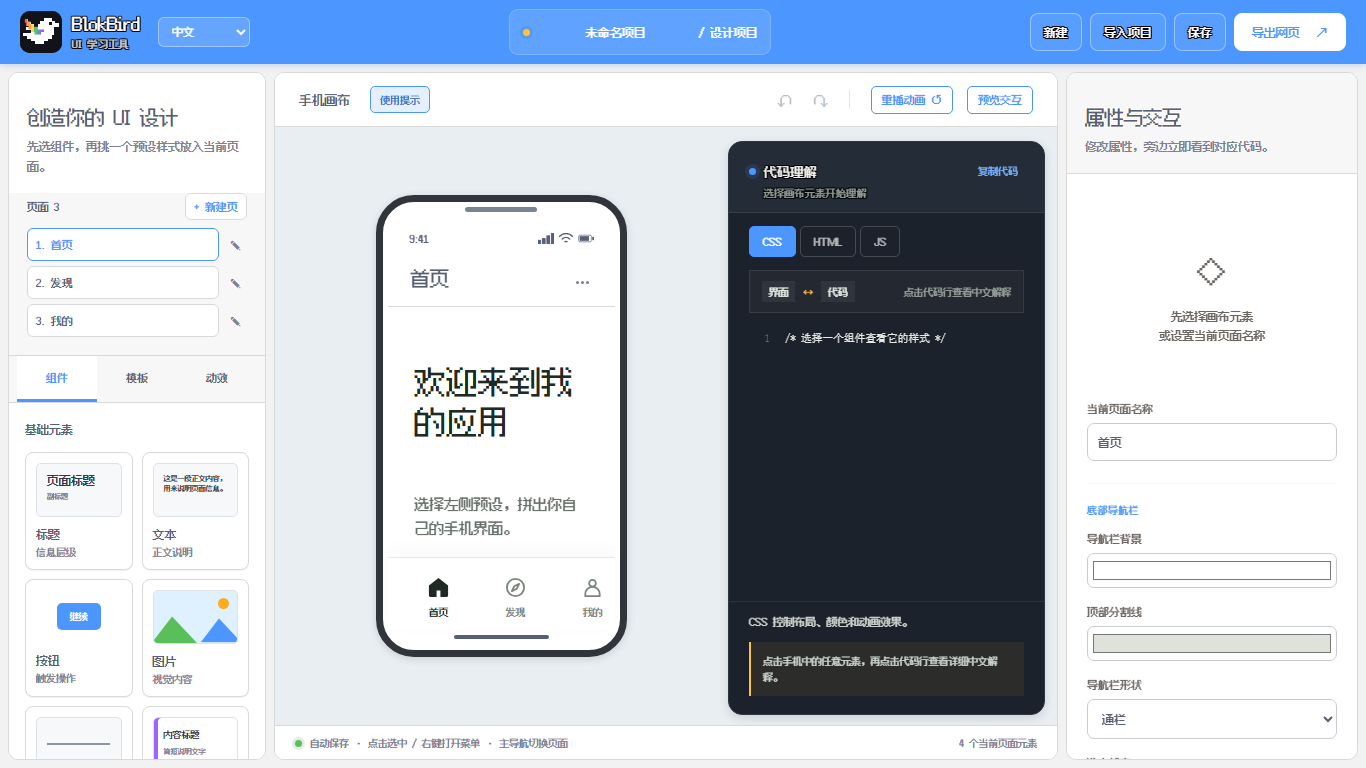
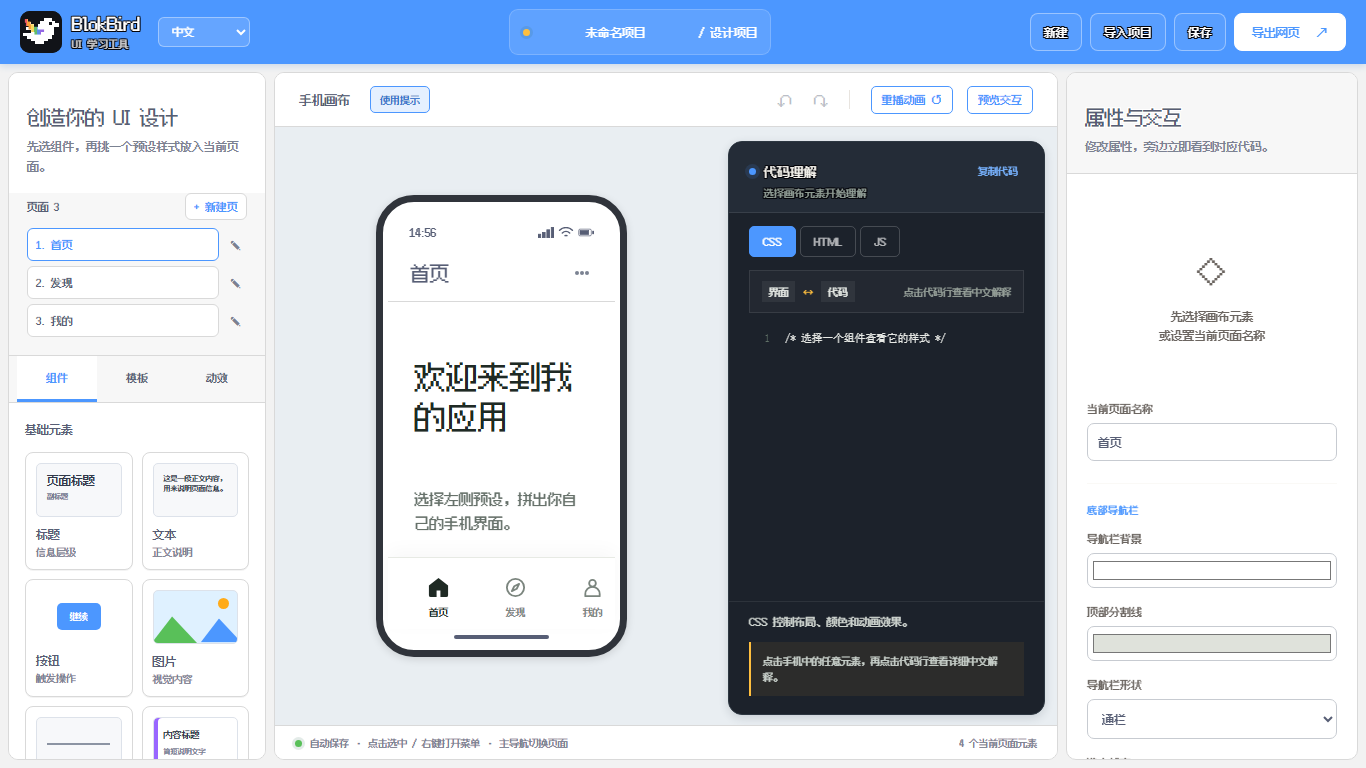
Hug selection frames, directional handles and live phone chrome

diff --git a/script.js b/script.js
@@ -328,7 +328,7 @@ let state = load();
 
 function makeItem(type, variantId, page = activePage) {
   const variant = VARIANTS[type].find(v => v.id === variantId) || VARIANTS[type][0];
-  const base = { id: uid(), type, page, layoutId: null, variant: variant.id, text: '', detail: '', color: '#1F2A24', background: '#FFFFFF', size: type === 'button' ? 14 : 16, radius: 0, align: 'left', width: 100, height: 0, src: '', href: '#', action: type === 'button' ? 'toast' : 'none', prompt: '操作成功', targetPage: 'profile', requiresInput: false, animation: 'none', animationDuration: 600, animationDelay: 0, animationEasing: 'ease', animationTrigger: 'enter', effect: 'none', effectColor: '#2F6B4F', opacity: 100, visualState: 'default', inputType: 'text', checked: false, columns: 1, gap: 10, padding: 10 };
+  const base = { id: uid(), type, page, layoutId: null, variant: variant.id, text: '', detail: '', color: '#1F2A24', background: '#FFFFFF', size: type === 'button' ? 14 : 16, radius: 0, align: 'left', width: 100, height: 0, offsetX: 0, offsetY: 0, src: '', href: '#', action: type === 'button' ? 'toast' : 'none', prompt: '操作成功', targetPage: 'profile', requiresInput: false, animation: 'none', animationDuration: 600, animationDelay: 0, animationEasing: 'ease', animationTrigger: 'enter', effect: 'none', effectColor: '#2F6B4F', opacity: 100, visualState: 'default', inputType: 'text', checked: false, columns: 1, gap: 10, padding: 10 };
   Object.assign(base, clone(variant.props)); base.size = Math.max(12, Math.min(100, Number(base.size) || 16)); if (type === 'card') base.detail = CARD_DETAILS[variant.id] || ''; return base;
 }
 
@@ -423,7 +423,7 @@ function normalizeProject(value) {
   result.pageParent = Object.fromEntries(result.pages.filter(page => result.pageModes[page] === 'detail' && result.pages.includes(result.pageParent?.[page]) && result.pageParent[page] !== page).map(page => [page, result.pageParent[page]]));
   result.headerActions = result.headerActions || {};
   for (const page of result.pages) { if (!result.pageTitles[page]) result.pageTitles[page] = '新页面'; if (!result.pageIcons[page]) result.pageIcons[page] = '□'; if (!result.headerActions[page]) result.headerActions[page] = { icon: '•••', action: 'menu', prompt: '这是' + result.pageTitles[page], targetPage: result.pages[0] }; }
-  result.items = result.items.map(item => ({ ...item, src: item.src === 'assets/white-sneaker-unsplash.jpg' ? SNEAKER_IMAGE : item.src, text: item.src === 'assets/white-sneaker-unsplash.jpg' ? '白色运动鞋商品图' : item.text, page: result.pages.includes(item.page) ? item.page : result.pages[0], variant: item.variant || VARIANTS[item.type][0].id, detail: item.detail ?? CARD_DETAILS[item.variant] ?? '', size: Math.max(12, Math.min(100, Number(item.size) || 16)), width: Math.max(10, Math.min(100, Number(item.width) || 100)), height: Math.max(0, Math.min(800, Number(item.height) || 0)), animation: item.animation || 'none', animationDuration: item.animationDuration ?? 600, animationDelay: item.animationDelay ?? 0, animationEasing: item.animationEasing || 'ease', animationTrigger: item.animationTrigger || 'enter', effect: item.effect || 'none', effectColor: item.effectColor || '#2F6B4F', opacity: item.opacity ?? 100, visualState: item.visualState || 'default', inputType: item.inputType || 'text', checked: Boolean(item.checked), layoutId: item.type === 'layout' ? null : item.layoutId || null, columns: item.columns || 1, gap: item.gap ?? 10, padding: item.padding ?? 10, action: item.action || (item.type === 'button' ? 'toast' : 'none'), prompt: item.prompt || '操作成功', targetPage: item.targetPage || result.pages[0], requiresInput: Boolean(item.requiresInput) }));
+  result.items = result.items.map(item => ({ ...item, src: item.src === 'assets/white-sneaker-unsplash.jpg' ? SNEAKER_IMAGE : item.src, text: item.src === 'assets/white-sneaker-unsplash.jpg' ? '白色运动鞋商品图' : item.text, page: result.pages.includes(item.page) ? item.page : result.pages[0], variant: item.variant || VARIANTS[item.type][0].id, detail: item.detail ?? CARD_DETAILS[item.variant] ?? '', size: Math.max(12, Math.min(100, Number(item.size) || 16)), width: Math.max(10, Math.min(100, Number(item.width) || 100)), height: Math.max(0, Math.min(800, Number(item.height) || 0)), offsetX: Number(item.offsetX) || 0, offsetY: Number(item.offsetY) || 0, animation: item.animation || 'none', animationDuration: item.animationDuration ?? 600, animationDelay: item.animationDelay ?? 0, animationEasing: item.animationEasing || 'ease', animationTrigger: item.animationTrigger || 'enter', effect: item.effect || 'none', effectColor: item.effectColor || '#2F6B4F', opacity: item.opacity ?? 100, visualState: item.visualState || 'default', inputType: item.inputType || 'text', checked: Boolean(item.checked), layoutId: item.type === 'layout' ? null : item.layoutId || null, columns: item.columns || 1, gap: item.gap ?? 10, padding: item.padding ?? 10, action: item.action || (item.type === 'button' ? 'toast' : 'none'), prompt: item.prompt || '操作成功', targetPage: item.targetPage || result.pages[0], requiresInput: Boolean(item.requiresInput) }));
   if (!result.paletteVersion && !result.styled) {
     const previousDefaults = { '#e07a5f': '#2F6B4F', '#2a6b6b': '#2F6B4F', '#2e2a27': '#1F2A24', '#6b6560': '#66716A', '#faf9f6': '#F5F3EF', '#e8e4df': '#DFE2DB', '#2455c5': '#2F6B4F' };
     for (const item of result.items) for (const key of ['color', 'background', 'effectColor']) if (typeof item[key] === 'string') item[key] = previousDefaults[item[key].toLowerCase()] || item[key];
@@ -600,20 +600,36 @@ function createElementNode(item) {
     node.style.borderRadius = `${Math.max(0, Math.min(99, Number(item.radius) || 0))}px`;
     node.style.textAlign = item.align || 'left';
   }
-  if (['heading', 'text', 'button', 'card', 'input'].includes(item.type)) node.style.background = safeColor(item.background, '#FFFFFF');
+  if (['heading', 'text', 'button', 'card', 'input'].includes(item.type)) node.style.background = safeColor(item.background, '#FFFFFF');  if (item.type === 'button') {
+    const width = Math.max(10, Math.min(100, Number(item.width) || 100));
+    if (width < 99.5) node.style.width = `${width}%`;
+    if (Number(item.height) > 0) node.style.minHeight = `${Math.max(28, Math.min(800, Number(item.height)))}px`;
+    node.style.marginLeft = `${Number(item.offsetX) || 0}px`; node.style.marginTop = `${Number(item.offsetY) || 0}px`;
+  }
+
   return node;
 }
 
 function buildCanvasWrapper(item) {
   const wrapper = document.createElement('div'); wrapper.className = 'canvas-element' + (selected === item.id && !preview ? ' selected' : '');
   wrapper.dataset.label = TYPE_LABELS[item.type]; wrapper.dataset.type = item.type; wrapper.dataset.id = item.id;
-  wrapper.style.width = `${Math.max(10, Math.min(100, Number(item.width) || 100))}%`;
-  if (Number(item.height) > 0) {
+  const inlineFrame = item.type === 'button';
+  wrapper.style.width = `${inlineFrame ? 100 : Math.max(10, Math.min(100, Number(item.width) || 100))}%`;
+  wrapper.style.borderRadius = `${Math.max(0, Math.min(99, Number(item.radius) || 0))}px`;
+  if (!inlineFrame) { wrapper.style.marginLeft = `${Number(item.offsetX) || 0}px`; wrapper.style.marginTop = `${Number(item.offsetY) || 0}px`; }
+  if (inlineFrame) wrapper.classList.add('inline-frame');
+  if (Number(item.height) > 0 && !inlineFrame) {
     wrapper.style.minHeight = `${Math.max(28, Math.min(800, Number(item.height)))}px`;
     wrapper.classList.add('has-custom-height');
   }
-  wrapper.append(createElementNode(item));
-  if (selected === item.id && !preview) for (const direction of ['nw', 'ne', 'sw', 'se']) { const handle = document.createElement('span'); handle.className = `resize-handle resize-${direction}`; handle.setAttribute('aria-hidden', 'true'); handle.onpointerdown = event => beginResize(event, item, wrapper, direction); wrapper.append(handle); }
+  const node = createElementNode(item);
+  if (inlineFrame) node.style.position = 'relative';
+  wrapper.append(node);
+  if (selected === item.id && !preview) for (const direction of ['nw', 'n', 'ne', 'e', 'se', 's', 'sw', 'w']) {
+    const handle = document.createElement('span'); handle.className = `resize-handle resize-${direction}`; handle.setAttribute('aria-hidden', 'true');
+    handle.onpointerdown = event => beginResize(event, item, inlineFrame ? node : wrapper, direction);
+    (inlineFrame ? node : wrapper).append(handle);
+  }
   wrapper.onclick = event => { event.stopPropagation(); if (preview) { if (item.animationTrigger === 'click') replayNodeAnimation(wrapper.firstElementChild); return; } selected = item.id; render(); };
   wrapper.oncontextmenu = event => { if (preview) return; event.preventDefault(); event.stopPropagation(); selected = item.id; renderInspector(); openContextMenu(event.clientX, event.clientY, 'item', item.id); };
   wrapper.draggable = !preview;
@@ -623,12 +639,36 @@ function buildCanvasWrapper(item) {
   wrapper.ondrop = event => { if (preview) return; event.preventDefault(); event.stopPropagation(); wrapper.classList.remove('drag-over'); const dragged = event.dataTransfer.getData('text/plain'); if (item.type === 'layout' && dragged !== item.id) moveIntoLayout(dragged, item.id); else reorderItem(dragged, item.id); };
   return wrapper;
 }
-function beginResize(event, item, wrapper, direction) {
+function beginResize(event, item, target, direction) {
   event.preventDefault(); event.stopPropagation();
-  const page = $('#canvasPage'); const pageRect = page.getBoundingClientRect(); const start = wrapper.getBoundingClientRect(); const startX = event.clientX; const startY = event.clientY;
-  commit(); wrapper.setPointerCapture?.(event.pointerId);
-  const move = current => { const horizontal = direction.includes('e') ? current.clientX - startX : startX - current.clientX; const vertical = direction.includes('s') ? current.clientY - startY : startY - current.clientY; const widthPx = Math.max(56, Math.min(pageRect.width, start.width + horizontal)); const heightPx = Math.max(28, Math.min(800, start.height + vertical)); wrapper.style.width = `${widthPx / pageRect.width * 100}%`; wrapper.style.minHeight = `${heightPx}px`; wrapper.style.height = ''; wrapper.classList.add('has-custom-height', 'is-resizing'); };
-  const finish = current => { move(current); const rect = wrapper.getBoundingClientRect(); item.width = Math.round(Math.max(10, Math.min(100, rect.width / pageRect.width * 100)) * 10) / 10; item.height = Math.round(Math.max(28, Math.min(800, rect.height))); wrapper.releasePointerCapture?.(event.pointerId); window.removeEventListener('pointermove', move); window.removeEventListener('pointerup', finish); update(); };
+  const page = $('#canvasPage'); const pageRect = page.getBoundingClientRect(); const start = target.getBoundingClientRect(); const startX = event.clientX; const startY = event.clientY;
+  const startOx = Number(item.offsetX) || 0, startOy = Number(item.offsetY) || 0;
+  const startW = start.width, startH = start.height;
+  const cursor = ['n', 's'].includes(direction) ? 'ns-resize' : ['e', 'w'].includes(direction) ? 'ew-resize' : ['ne', 'sw'].includes(direction) ? 'nesw-resize' : 'nwse-resize';
+  let lastW = startW, lastH = startH, lastOx = startOx, lastOy = startOy;
+  commit(); target.setPointerCapture?.(event.pointerId);
+  const move = current => {
+    const dx = current.clientX - startX, dy = current.clientY - startY;
+    let width = direction.includes('e') ? startW + dx : direction.includes('w') ? startW - dx : startW;
+    let height = direction.includes('s') ? startH + dy : direction.includes('n') ? startH - dy : startH;
+    width = Math.max(56, Math.min(pageRect.width, width));
+    height = Math.max(28, Math.min(800, height));
+    const offsetX = direction.includes('w') ? startOx + (startW - width) : startOx;
+    const offsetY = direction.includes('n') ? startOy + (startH - height) : startOy;
+    lastW = width; lastH = height; lastOx = offsetX; lastOy = offsetY;
+    target.style.width = `${width}px`; target.style.minHeight = `${height}px`; target.style.height = '';
+    target.style.marginLeft = `${offsetX}px`; target.style.marginTop = `${offsetY}px`;
+    target.style.cursor = cursor; target.classList.add('is-resizing');
+  };
+  const finish = current => {
+    move(current);
+    item.width = Math.round(Math.max(10, Math.min(100, lastW / pageRect.width * 100)) * 10) / 10;
+    item.height = Math.round(Math.max(28, Math.min(800, lastH)));
+    item.offsetX = Math.round(lastOx); item.offsetY = Math.round(lastOy);
+    target.releasePointerCapture?.(event.pointerId); target.style.cursor = ''; target.classList.remove('is-resizing');
+    window.removeEventListener('pointermove', move); window.removeEventListener('pointerup', finish);
+    update();
+  };
   window.addEventListener('pointermove', move); window.addEventListener('pointerup', finish, { once: true });
 }
 function renderCanvas() {
@@ -1053,8 +1093,11 @@ function presentationCss(item) { return `--effect-color:${safeColor(item.effectC
 function presentationTrigger(item) { return item.animation && item.animation !== 'none' && safeTrigger(item.animationTrigger) === 'click' ? ' data-animation-trigger="click"' : ''; }
 function exportElement(item) {
   const text = escapeHtml(item.text); const color = safeColor(item.color); const bg = safeColor(item.background, '#FFFFFF');
+  const widthPct = Math.max(10, Math.min(100, Number(item.width) || 100));
+  const widthStyle = item.type === 'button' && widthPct >= 99.5 ? 'width:auto;' : `width:${widthPct}%;`;
   const sizeStyle = Number(item.height) > 0 ? `min-height:${Math.max(28, Math.min(800, Number(item.height)))}px;` : '';
-  const dimensions = `width:${Math.max(10, Math.min(100, Number(item.width) || 100))}%;${sizeStyle}`;
+  const offsetStyle = `margin-left:${Number(item.offsetX) || 0}px;margin-top:${Number(item.offsetY) || 0}px;`;
+  const dimensions = `${widthStyle}${sizeStyle}${offsetStyle}`;
   const base = `${dimensions}color:${color};font-size:${Math.max(12, Math.min(100, Number(item.size) || 16))}px;border-radius:${Math.max(0, Math.min(99, Number(item.radius) || 0))}px;text-align:${item.align || 'left'};background:${bg};${presentationCss(item)}`;
   const classes = presentationClasses(item); const trigger = presentationTrigger(item);
   if (item.type === 'layout') { const children = state.items.filter(child => child.page === item.page && child.layoutId === item.id).map(exportElement).join(''); const style = `--layout-columns:${Math.max(1, Math.min(4, Number(item.columns) || 1))};gap:${Math.max(0, Math.min(40, Number(item.gap) || 0))}px;padding:${Math.max(0, Math.min(50, Number(item.padding) || 0))}px;border-radius:${Math.max(0, Math.min(99, Number(item.radius) || 0))}px;background:${bg};${presentationCss(item)}`; return `<div class="item ui-layout variant-layout-${escapeHtml(item.variant)}${classes}" style="${style}"${trigger}>${children}</div>`; }
@@ -1108,13 +1151,15 @@ function buildExportHtml(fontFace = '') {
   const navClass = `nav-shape-${navStyle.shape} nav-state-${navStyle.activeState}`;
   const navInline = `--nav-background:${safeColor(navStyle.background, '#FFFFFF')};--nav-border:${safeColor(navStyle.borderColor, '#DFE2DB')};--nav-height:${Math.max(56, Math.min(110, Number(navStyle.height) || 72))}px;--nav-radius:${Math.max(0, Math.min(40, Number(navStyle.radius) || 0))}px`;
   const html = `<!doctype html><html lang="zh-CN"><head><meta charset="utf-8"><meta name="viewport" content="width=device-width,initial-scale=1"><title>${escapeHtml(state.name)}</title><style>
-  ${fontFace}*{box-sizing:border-box}body{margin:0;background:#F5F3EF;color:#1F2A24;font-family:'Fusion Pixel','Microsoft YaHei UI','Microsoft YaHei',monospace}.app{width:min(100%,468px);height:100dvh;min-height:650px;margin:auto;background:#fff;display:flex;flex-direction:column;box-shadow:0 0 30px #1F2A2418}.status{height:38px;flex:none;padding:14px 20px 0;display:flex;justify-content:space-between;font-size:11px;font-weight:700}.status .signals{display:flex;align-items:center;gap:4px;font-size:0}.dot-menu{display:inline-flex;align-items:center;gap:2px}.dot-menu i{width:3px;height:3px;border-radius:50%;background:currentColor;display:block}.status .signals svg{width:16px;height:11px;display:block;fill:currentColor;stroke:currentColor}.status .signals svg:nth-child(2){fill:none;stroke-width:1.6}.header{height:56px;flex:none;display:flex;align-items:center;padding:0 22px;border-bottom:1px solid #DFE2DB;font-size:20px;font-weight:700}main{flex:1;overflow:auto;padding:24px 22px}nav{height:72px;flex:none;display:grid;grid-template-columns:repeat(3,1fr);border-top:1px solid #DFE2DB}nav button{border:0;background:#fff;color:#66716A;font:600 11px system-ui;display:flex;flex-direction:column;align-items:center;justify-content:center;gap:3px}nav button span{font-size:22px}nav button.active{color:#2F6B4F}.app-page{display:none}.app-page.active{display:block}.item{display:block;margin:0 0 17px;max-width:100%}.btn{padding:10px 18px;border:1px solid transparent;font-weight:700;cursor:pointer}.btn.outline{border-color:#2F6B4F}.btn.text-button{padding-left:0;padding-right:0}.btn:active{transform:scale(.96)}.card{padding:20px;border:1px solid #DFE2DB}.card.accent{border-left:4px solid #2F6B4F}.card.outline{border-color:#2F6B4F}.card small{display:block;margin-top:7px;color:#66716A;font-size:12px}hr{border:0;border-top:1px solid #DFE2DB}.dashed{border-top-style:dashed}.wave{height:27px;width:100%}.toast{position:fixed;left:50%;bottom:91px;transform:translateX(-50%);display:none;padding:10px 18px;background:#1F2A24;color:#fff;border-radius:9px;font-size:12px}.modal{position:fixed;inset:0;background:#1F2A2470;display:none;place-items:center;padding:20px}.modal>div{max-width:320px;width:100%;background:#fff;border-radius:15px;padding:24px;text-align:center}.modal button{background:#2F6B4F;color:#fff;border:0;border-radius:8px;padding:10px 24px}.bb-fade{animation:fade .5s ease both}.bb-rise{animation:rise .5s ease both}.bb-pop{animation:pop .4s ease both}@keyframes fade{from{opacity:0}to{opacity:1}}@keyframes rise{from{opacity:0;transform:translateY(15px)}to{opacity:1;transform:translateY(0)}}@keyframes pop{from{opacity:0;transform:scale(.9)}to{opacity:1}}
+  ${fontFace}*{box-sizing:border-box}body{margin:0;background:#F5F3EF;color:#1F2A24;font-family:'Fusion Pixel','Microsoft YaHei UI','Microsoft YaHei',monospace}.app{width:min(100%,468px);height:100dvh;min-height:650px;margin:auto;background:#fff;display:flex;flex-direction:column;box-shadow:0 0 30px #1F2A2418}.status{height:38px;flex:none;padding:14px 20px 0;display:flex;justify-content:space-between;font-size:11px;font-weight:700}.status .signals{display:flex;align-items:center;gap:4px;font-size:0}.dot-menu{display:inline-flex;align-items:center;gap:1px}.dot-menu i{width:4px;height:4px;border-radius:50%;background:currentColor;display:block}.status .signals svg{width:16px;height:11px;display:block;fill:currentColor;stroke:currentColor}.status .signals svg:nth-child(2){fill:none;stroke-width:1.6}.header{height:56px;flex:none;display:flex;align-items:center;padding:0 22px;border-bottom:1px solid #DFE2DB;font-size:20px;font-weight:700}main{flex:1;overflow:auto;padding:24px 22px}nav{height:72px;flex:none;display:grid;grid-template-columns:repeat(3,1fr);border-top:1px solid #DFE2DB}nav button{border:0;background:#fff;color:#66716A;font:600 11px system-ui;display:flex;flex-direction:column;align-items:center;justify-content:center;gap:3px}nav button span{font-size:22px}nav button.active{color:#2F6B4F}.app-page{display:none}.app-page.active{display:block}.item{display:block;margin:0 0 17px;max-width:100%}.btn{padding:10px 18px;border:1px solid transparent;font-weight:700;cursor:pointer}.btn.outline{border-color:#2F6B4F}.btn.text-button{padding-left:0;padding-right:0}.btn:active{transform:scale(.96)}.card{padding:20px;border:1px solid #DFE2DB}.card.accent{border-left:4px solid #2F6B4F}.card.outline{border-color:#2F6B4F}.card small{display:block;margin-top:7px;color:#66716A;font-size:12px}hr{border:0;border-top:1px solid #DFE2DB}.dashed{border-top-style:dashed}.wave{height:27px;width:100%}.toast{position:fixed;left:50%;bottom:91px;transform:translateX(-50%);display:none;padding:10px 18px;background:#1F2A24;color:#fff;border-radius:9px;font-size:12px}.modal{position:fixed;inset:0;background:#1F2A2470;display:none;place-items:center;padding:20px}.modal>div{max-width:320px;width:100%;background:#fff;border-radius:15px;padding:24px;text-align:center}.modal button{background:#2F6B4F;color:#fff;border:0;border-radius:8px;padding:10px 24px}.bb-fade{animation:fade .5s ease both}.bb-rise{animation:rise .5s ease both}.bb-pop{animation:pop .4s ease both}@keyframes fade{from{opacity:0}to{opacity:1}}@keyframes rise{from{opacity:0;transform:translateY(15px)}to{opacity:1;transform:translateY(0)}}@keyframes pop{from{opacity:0;transform:scale(.9)}to{opacity:1}}
   .header{justify-content:space-between}.header button{border:0;background:transparent;color:#66716A;font-size:16px;cursor:pointer}nav{display:flex;grid-template-columns:none;overflow-x:auto;scrollbar-width:none}nav button{min-width:74px;flex:1 0 74px}.more-menu{position:fixed;right:max(12px,calc((100vw - 468px)/2 + 20px));top:88px;width:145px;background:#fff;border:1px solid #DFE2DB;border-radius:9px;box-shadow:0 10px 25px #1F2A2420;display:none}.more-menu button{display:block;width:100%;padding:10px;background:#fff;border:0;text-align:left;color:#1F2A24}
   #back[hidden],nav[hidden]{display:none}.header #back{font-size:23px;color:#1F2A24}
   nav{height:var(--nav-height,72px);padding:4px 12px 0;border-color:var(--nav-border,#DFE2DB);background:var(--nav-background,#fff);border-radius:var(--nav-radius,0);box-shadow:0 -6px 18px #1F2A2408}nav button{min-width:76px;gap:3px;padding:5px 4px 3px;border-radius:10px;color:var(--nav-inactive,#7B857E);background:transparent;font-size:10px;font-weight:550}nav button.active{color:var(--nav-active,#1F2A24);font-weight:750}nav.nav-shape-floating{margin:0 12px 10px;border:1px solid var(--nav-border);box-shadow:0 8px 24px #1F2A2420}.nav-shape-pill{margin:0 18px 12px;border:1px solid var(--nav-border);border-radius:999px}.nav-state-icon button.active,.nav-state-underline button.active{background:transparent}.nav-state-tint button.active{background:color-mix(in srgb,var(--nav-active) 18%,var(--nav-background))}.nav-state-tint button.active .icon-filled{display:none!important}.nav-state-tint button.active .icon-outline{display:block!important}.nav-state-underline button{position:relative}.nav-state-underline button.active:after{content:'';position:absolute;bottom:2px;width:22px;height:3px;border-radius:3px;background:currentColor}.nav-state-underline button.active .nav-icon .icon-filled{display:none}.nav-state-underline button.active .nav-icon .icon-outline{display:block}nav .nav-icon{width:26px;height:26px;display:grid;place-items:center}nav .nav-icon svg,nav .nav-icon img{width:var(--icon-size,23px);height:var(--icon-size,23px);display:block;object-fit:contain}nav .nav-icon svg{stroke:currentColor;stroke-width:var(--icon-stroke,1.9);stroke-linecap:round;stroke-linejoin:round;fill:none}nav .nav-icon .icon-filled{display:none;fill:currentColor;stroke:none}nav button.active .nav-icon svg.has-fill .icon-outline{display:none}nav button.active .nav-icon svg.has-fill .icon-filled{display:block}nav button:not(.active) .nav-icon img{opacity:.58}
-  ${PRESET_CSS}</style></head><body><div class="app"><div class="status"><span>9:41</span><span class="signals" aria-hidden="true"><svg viewBox="0 0 18 12"><rect x="0" y="8" width="3" height="4"/><rect x="5" y="6" width="3" height="6"/><rect x="10" y="3" width="3" height="9"/><rect x="15" y="0" width="3" height="12"/></svg><svg viewBox="0 0 16 12"><path d="M1 3.5a10 10 0 0 1 14 0M4 6.5a6 6 0 0 1 8 0M7 9.5a2 2 0 0 1 2 0" fill="none" stroke="currentColor" stroke-width="1.6" stroke-linecap="round"/></svg><svg viewBox="0 0 24 12"><rect x="1" y="1" width="19" height="10" rx="2" fill="none" stroke="currentColor"/><rect x="3" y="3" width="13" height="6"/><rect x="22" y="4" width="2" height="4"/></svg></span></div><div class="header"><button id="back" aria-label="返回上一页" hidden>←</button><span id="title"></span><button id="more" aria-label="页面操作">•••</button></div><main>${pages}</main><nav class="${navClass}" style="${navInline}">${nav}</nav></div><div class="more-menu" id="moreMenu"><button id="moreInfo">页面信息</button><button id="moreNext">下一页</button><button id="moreClose">关闭菜单</button></div><div class="toast" id="toast"></div><div class="modal" id="modal"><div><strong>提示</strong><p id="message"></p><button id="close">知道了</button></div></div><script>
+  ${PRESET_CSS}</style></head><body><div class="app"><div class="status"><span class="phone-time">9:41</span><span class="signals" aria-hidden="true"><svg viewBox="0 0 18 12"><rect x="0" y="8" width="3" height="4"/><rect x="5" y="6" width="3" height="6"/><rect x="10" y="3" width="3" height="9"/><rect x="15" y="0" width="3" height="12"/></svg><svg viewBox="0 0 16 12"><path d="M1 3.5a10 10 0 0 1 14 0M4 6.5a6 6 0 0 1 8 0M7 9.5a2 2 0 0 1 2 0" fill="none" stroke="currentColor" stroke-width="1.6" stroke-linecap="round"/></svg><svg viewBox="0 0 24 12"><rect x="1" y="1" width="19" height="10" rx="2" fill="none" stroke="currentColor"/><rect x="3" y="3" width="13" height="6"/><rect x="22" y="4" width="2" height="4"/></svg></span></div><div class="header"><button id="back" aria-label="返回上一页" hidden>←</button><span id="title"></span><button id="more" aria-label="页面操作">•••</button></div><main>${pages}</main><nav class="${navClass}" style="${navInline}">${nav}</nav></div><div class="more-menu" id="moreMenu"><button id="moreInfo">页面信息</button><button id="moreNext">下一页</button><button id="moreClose">关闭菜单</button></div><div class="toast" id="toast"></div><div class="modal" id="modal"><div><strong>提示</strong><p id="message"></p><button id="close">知道了</button></div></div><script>
   const titles=${titlesJson},actions=${actionsJson},headers=${headerJson},pageIds=${pageIdsJson},pageModes=${pageModesJson},pageParent=${pageParentJson};
   let current=pageIds[0],pageHistory=[];
+  function updatePhoneTime(){const el=document.querySelector('.phone-time');if(!el)return;const d=new Date();el.textContent=String(d.getHours()).padStart(2,'0')+':'+String(d.getMinutes()).padStart(2,'0')}
+  if(typeof window!=='undefined'){updatePhoneTime();setTimeout(function tick(){updatePhoneTime();setTimeout(tick,30000)},30000)}
   function hideMore(){document.getElementById('moreMenu').style.display='none'}
   function show(page,remember=false){if(!pageIds.includes(page))return;if(remember&&page!==current)pageHistory.push(current);else if(!remember)pageHistory=[];current=page;document.querySelectorAll('.app-page').forEach(e=>e.classList.toggle('active',e.dataset.page===page));document.querySelectorAll('nav button').forEach(e=>e.classList.toggle('active',e.dataset.pageTarget===page));document.getElementById('title').textContent=titles[page]||page;const moreIcon=(headers[page]&&headers[page].icon)||'•••';const moreEl=document.getElementById('more');if(moreIcon==='•••')moreEl.innerHTML='<span class="dot-menu" aria-hidden="true"><i></i><i></i><i></i></span>';else moreEl.textContent=moreIcon;document.getElementById('back').hidden=pageModes[page]!=='detail';document.querySelector('nav').hidden=pageModes[page]==='detail';document.querySelector('main').scrollTop=0;hideMore()}
   function back(){const prior=pageHistory.pop()||pageParent[current]||pageIds.find(id=>pageModes[id]!=='detail');if(prior&&prior!==current){const remaining=pageHistory;show(prior);pageHistory=remaining}}
@@ -1150,7 +1195,7 @@ function loadExportFontFace() {
   if (window.BLOKBIRD_FONT_DATA) return Promise.resolve(build(window.BLOKBIRD_FONT_DATA));
   return new Promise(resolve => {
     const script = document.createElement('script');
-    script.src = 'export-font.js?v=20261110e';
+    script.src = 'export-font.js?v=20261110f';
     script.onload = () => resolve(build(window.BLOKBIRD_FONT_DATA));
     script.onerror = () => resolve('');
     document.head.append(script);
@@ -1215,4 +1260,6 @@ document.querySelectorAll('[data-code]').forEach(button => button.onclick = () =
 document.addEventListener('click', event => { if (!$('#contextMenu').contains(event.target)) hideContextMenu(); if (!$('#phoneMoreMenu').contains(event.target) && event.target !== $('#phoneMoreBtn')) $('#phoneMoreMenu').classList.add('hidden'); });
 document.addEventListener('keydown', event => { if (event.key === 'Escape') { hideContextMenu(); $('#phoneMoreMenu').classList.add('hidden'); $('#guideDialog').classList.add('hidden'); if (componentCategoryOpen) { event.preventDefault(); closeComponentCategory(); } if (!$('#assetsTab').classList.contains('hidden')) { event.preventDefault(); closeAssetsPanel(); } } const editing = ['INPUT', 'TEXTAREA', 'SELECT'].includes(document.activeElement?.tagName); if (editing) return; if ((event.ctrlKey || event.metaKey) && event.key.toLowerCase() === 'z') { event.preventDefault(); $('#undoBtn').click(); } if ((event.ctrlKey || event.metaKey) && event.key.toLowerCase() === 'y') { event.preventDefault(); $('#redoBtn').click(); } if ((event.ctrlKey || event.metaKey) && event.key.toLowerCase() === 'c' && selected && selected !== '__header__') { event.preventDefault(); copyItem(selected); } if ((event.ctrlKey || event.metaKey) && event.key.toLowerCase() === 'v' && clipboard) { event.preventDefault(); pasteItem(); } if (event.key === 'Delete' && selected && selected !== '__header__') { event.preventDefault(); deleteItem(selected); } });
 const presetStyle = document.createElement('style'); presetStyle.textContent = PRESET_CSS; document.head.append(presetStyle);
+function updatePhoneTime() { const el = $('.phone-time'); if (!el) return; const d = new Date(); el.textContent = String(d.getHours()).padStart(2, '0') + ':' + String(d.getMinutes()).padStart(2, '0'); }
+updatePhoneTime(); setInterval(updatePhoneTime, 30000);
 renderTemplates(); renderEffects(); renderAssets(); render();

diff --git a/phone.css b/phone.css
@@ -10,14 +10,14 @@
   background:var(--surface);box-shadow:0 18px 48px #1F2A2426,0 0 0 2px #66716A;
   overflow:hidden;
 }
-.canvas-frame.mobile::before{content:"";position:absolute;top:5px;left:50%;transform:translateX(-50%);width:72px;height:5px;border-radius:8px;background:var(--muted)}
-.phone-status{height:35px;flex:none;display:flex;justify-content:space-between;align-items:center;padding:10px 21px 0;font-size:11px;font-weight:700;color:var(--text)}
+.canvas-frame.mobile::before{display:none}
+.phone-status{height:30px;flex:none;display:flex;justify-content:space-between;align-items:center;padding:3px 21px 0;font-size:12px;font-weight:400;color:var(--text)}
 .phone-signals{display:flex;align-items:center;gap:4px;font-size:0}.phone-signals svg{width:16px;height:11px;display:block;fill:currentColor;stroke:currentColor}.phone-signals svg:nth-child(2){fill:none;stroke-width:1.6}
 .phone-app-header{height:56px;flex:none;display:flex;justify-content:space-between;align-items:center;padding:0 22px;border-bottom:1px solid var(--line);color:var(--text)}
 .phone-app-header .phone-back{border:0;background:transparent;color:var(--text);font-size:25px;line-height:1;padding:6px 12px 6px 0;cursor:pointer}.phone-app-header .phone-back:hover{color:var(--primary)}
 .phone-app-header .phone-back:not(.hidden)+strong{margin-right:auto}
 .phone-app-header strong{font-size:20px}.phone-header-dot{font-size:14px;letter-spacing:0;color:var(--muted)}
-.phone-header-dot{border:0;background:transparent;padding:8px 4px;cursor:pointer;font-weight:700}.dot-menu{display:inline-flex;align-items:center;gap:2px}.dot-menu i{width:3px;height:3px;border-radius:50%;background:currentColor;display:block}.phone-header-dot:hover{color:var(--selected)}.phone-header-dot.selected{outline:1px solid var(--selected);border-radius:6px}
+.phone-header-dot{border:0;background:transparent;padding:2px 4px;cursor:pointer;font-weight:400;display:inline-flex;align-items:center;justify-content:center;line-height:1}.dot-menu{display:inline-flex;align-items:center;gap:1px}.dot-menu i{width:4px;height:4px;border-radius:50%;background:currentColor;display:block}.phone-header-dot:hover{color:var(--selected)}.phone-header-dot.selected{outline:2px solid var(--selected);outline-offset:0;border-radius:0}
 .phone-more-menu{position:absolute;z-index:5;right:20px;top:90px;width:145px;background:var(--surface);border:1px solid var(--line);border-radius:9px;box-shadow:0 10px 25px #1F2A2420;overflow:hidden}
 .phone-more-menu button{display:block;width:100%;padding:11px 13px;border:0;background:var(--surface);text-align:left;color:var(--text);font-size:12px}.phone-more-menu button:hover{background:var(--page)}
 .canvas-frame.mobile .canvas-page{height:auto;min-height:0;flex:1;overflow-y:auto;overflow-x:hidden;padding:24px 22px;background:var(--surface);border-radius:0;scrollbar-width:none}
@@ -87,4 +87,4 @@
 .variant-option .preview-input{width:84px;padding:7px 6px;border:1px solid var(--line);color:var(--muted);font-size:8px;overflow:hidden;text-overflow:ellipsis;white-space:nowrap;text-align:left}.variant-option .preview-input.variant-input-underline{border-width:0 0 2px}.variant-option .preview-switch{width:37px;height:22px;display:flex;align-items:center;padding:3px;border-radius:99px}.variant-option .preview-switch i{width:16px;height:16px;border-radius:50%;background:#fff;box-shadow:0 1px 3px #0003}.variant-option .preview-switch.on{justify-content:flex-end}
 .phone-nav{height:var(--nav-height,72px);border-top-color:var(--nav-border,var(--line));background:var(--nav-background,var(--surface));border-radius:var(--nav-radius,0);transition:height .2s,margin .2s,border-radius .2s,background .2s}
 .phone-nav.nav-shape-floating{margin:0 10px 10px;border:1px solid var(--nav-border,var(--line));box-shadow:0 8px 22px #1727471F}.phone-nav.nav-shape-pill{margin:0 15px 12px;border:1px solid var(--nav-border,var(--line));border-radius:999px}.phone-nav.nav-state-tint button.active{background:color-mix(in srgb,var(--nav-active) 13%,transparent)}.phone-nav.nav-state-underline button.active:after{content:'';width:20px;height:3px;border-radius:3px;background:currentColor}.phone-nav.nav-state-underline button.active .icon-filled{display:none!important}.phone-nav.nav-state-underline button.active .icon-outline{display:block!important}
-.canvas-element.is-resizing{cursor:nwse-resize}.canvas-element.has-custom-height>*:first-child{height:100%;max-height:100%}.canvas-element.has-custom-height img{width:100%;object-fit:cover}.resize-handle{position:absolute;width:11px;height:11px;background:#fff;border:2px solid #4C97FF;z-index:8;box-shadow:0 1px 3px #17274733}.resize-nw{left:-6px;top:-6px;cursor:nwse-resize}.resize-ne{right:-6px;top:-6px;cursor:nesw-resize}.resize-sw{left:-6px;bottom:-6px;cursor:nesw-resize}.resize-se{right:-6px;bottom:-6px;cursor:nwse-resize}
+.canvas-element.is-resizing{cursor:nwse-resize}.canvas-element.inline-frame.selected{border-color:transparent}.canvas-element.inline-frame.selected>.ui-button{outline:2px solid var(--selected);outline-offset:2px}.canvas-element.has-custom-height img{width:100%;object-fit:cover}.resize-handle{position:absolute;width:11px;height:11px;background:#fff;border:2px solid #4C97FF;z-index:8;box-shadow:0 1px 3px #17274733}.resize-nw{left:-6px;top:-6px;cursor:nwse-resize}.resize-ne{right:-6px;top:-6px;cursor:nesw-resize}.resize-sw{left:-6px;bottom:-6px;cursor:nesw-resize}.resize-se{right:-6px;bottom:-6px;cursor:nwse-resize}.resize-n{left:50%;top:-6px;transform:translateX(-50%);cursor:ns-resize}.resize-e{right:-6px;top:50%;transform:translateY(-50%);cursor:ew-resize}.resize-s{left:50%;bottom:-6px;transform:translateX(-50%);cursor:ns-resize}.resize-w{left:-6px;top:50%;transform:translateY(-50%);cursor:ew-resize}

diff --git a/index.html b/index.html
@@ -6,11 +6,11 @@
   <meta name="description" content="自由拼接手机界面、设计交互并学习前端的可视化工具" />
   <title>BlokBird · UI Design</title>
   <link rel="icon" type="image/svg+xml" href="logo.svg?v=20260924" />
-  <link rel="stylesheet" href="styles.css?v=20261110e" />
-  <link rel="stylesheet" href="phone.css?v=20261110e" />
-  <link rel="stylesheet" href="theme.css?v=20261110e" />
-  <link rel="stylesheet" href="ui-overrides.css?v=20261110e" />
-  <link rel="stylesheet" href="mobile-gate.css?v=20261110e" />
+  <link rel="stylesheet" href="styles.css?v=20261110f" />
+  <link rel="stylesheet" href="phone.css?v=20261110f" />
+  <link rel="stylesheet" href="theme.css?v=20261110f" />
+  <link rel="stylesheet" href="ui-overrides.css?v=20261110f" />
+  <link rel="stylesheet" href="mobile-gate.css?v=20261110f" />
   <script>
     if (navigator.userAgentData?.mobile || /Android.*Mobile|iPhone|iPod|Windows Phone|Mobile/i.test(navigator.userAgent)) {
       document.documentElement.classList.add('phone-visitor');
@@ -52,7 +52,7 @@
       <div class="stage-toolbar"><div><strong>手机画布</strong><button id="guideBtn" class="stage-guide-btn" type="button">使用提示</button></div><div class="stage-controls"><button id="undoBtn" class="icon-btn" title="撤销">↶</button><button id="redoBtn" class="icon-btn" title="重做">↷</button><span class="toolbar-rule"></span><button id="replayBtn" class="preview-btn" title="重播当前页面动画">重播动画 ↺</button><button id="previewBtn" class="preview-btn">预览交互</button></div></div>
       <div class="learning-workbench">
       <div class="canvas-area"><div class="canvas-frame mobile" id="canvasFrame">
-        <div class="phone-status"><span>9:41</span><span class="phone-signals" aria-hidden="true"><svg viewBox="0 0 18 12"><rect x="0" y="8" width="3" height="4"/><rect x="5" y="6" width="3" height="6"/><rect x="10" y="3" width="3" height="9"/><rect x="15" y="0" width="3" height="12"/></svg><svg viewBox="0 0 16 12"><path d="M1 3.5a10 10 0 0 1 14 0M4 6.5a6 6 0 0 1 8 0M7 9.5a2 2 0 0 1 2 0" fill="none" stroke="currentColor" stroke-width="1.6" stroke-linecap="round"/></svg><svg viewBox="0 0 24 12"><rect x="1" y="1" width="19" height="10" rx="2" fill="none" stroke="currentColor"/><rect x="3" y="3" width="13" height="6"/><rect x="22" y="4" width="2" height="4"/></svg></span></div>
+        <div class="phone-status"><span class="phone-time">9:41</span><span class="phone-signals" aria-hidden="true"><svg viewBox="0 0 18 12"><rect x="0" y="8" width="3" height="4"/><rect x="5" y="6" width="3" height="6"/><rect x="10" y="3" width="3" height="9"/><rect x="15" y="0" width="3" height="12"/></svg><svg viewBox="0 0 16 12"><path d="M1 3.5a10 10 0 0 1 14 0M4 6.5a6 6 0 0 1 8 0M7 9.5a2 2 0 0 1 2 0" fill="none" stroke="currentColor" stroke-width="1.6" stroke-linecap="round"/></svg><svg viewBox="0 0 24 12"><rect x="1" y="1" width="19" height="10" rx="2" fill="none" stroke="currentColor"/><rect x="3" y="3" width="13" height="6"/><rect x="22" y="4" width="2" height="4"/></svg></span></div>
         <div class="phone-app-header"><button id="phoneBackBtn" class="phone-back hidden" type="button" aria-label="返回上一页">←</button><strong id="phonePageTitle">首页</strong><button id="phoneMoreBtn" class="phone-header-dot" type="button" aria-label="页面操作">•••</button></div>
         <div class="canvas-page" id="canvasPage"></div>
         <nav class="phone-nav" id="phoneNav" aria-label="手机页面"></nav>
@@ -73,6 +73,6 @@
   <div id="guideDialog" class="guide-dialog hidden" role="dialog" aria-modal="true" aria-labelledby="guideTitle"><div class="guide-dialog-card"><div class="guide-dialog-head"><strong id="guideTitle">使用提示</strong><button id="guideCloseBtn" type="button" aria-label="关闭提示">×</button></div><div class="guide-dialog-grid"><div class="guide-card"><strong>从任意组件开始</strong><p>挑选左侧预设放入手机页面，再从右侧修改文字、颜色、动画和行为。</p></div><div class="guide-card"><strong>设计真实操作路径</strong><p>新建页面并给按钮设置切换页面，把首页、详情和完成状态连接起来。</p></div><div class="guide-card"><strong>直接操作画布</strong><p>点击选中，拖动调整顺序，右键打开复制、粘贴和移动菜单。</p></div><div class="guide-card"><strong>一边设计一边学代码</strong><p>选中组件后点击代码行，查看当前值如何产生手机里的真实效果。</p></div></div></div></div>
   <div id="exportDialog" class="guide-dialog hidden" role="dialog" aria-modal="true" aria-labelledby="exportTitle"><div class="guide-dialog-card export-card"><div class="guide-dialog-head"><strong id="exportTitle">导出网页</strong><button id="exportCloseBtn" type="button" aria-label="关闭导出提示">×</button></div><div class="export-body"><p>将生成 <code>blokbird-app.html</code>（约 <span id="exportSize">—</span>）并保存到本机，不会上传或发布。</p></div><div class="export-actions"><button id="exportCancelBtn" type="button">取消</button><button id="exportDownloadBtn" class="primary" type="button">下载 HTML</button></div></div></div>
   <div class="phone-visitor-gate" role="status" aria-live="polite"><span>请在电脑上使用浏览器打开</span></div>
-  <script src="script.js?v=20261110e"></script>
+  <script src="script.js?v=20261110f"></script>
 </body>
 </html>
